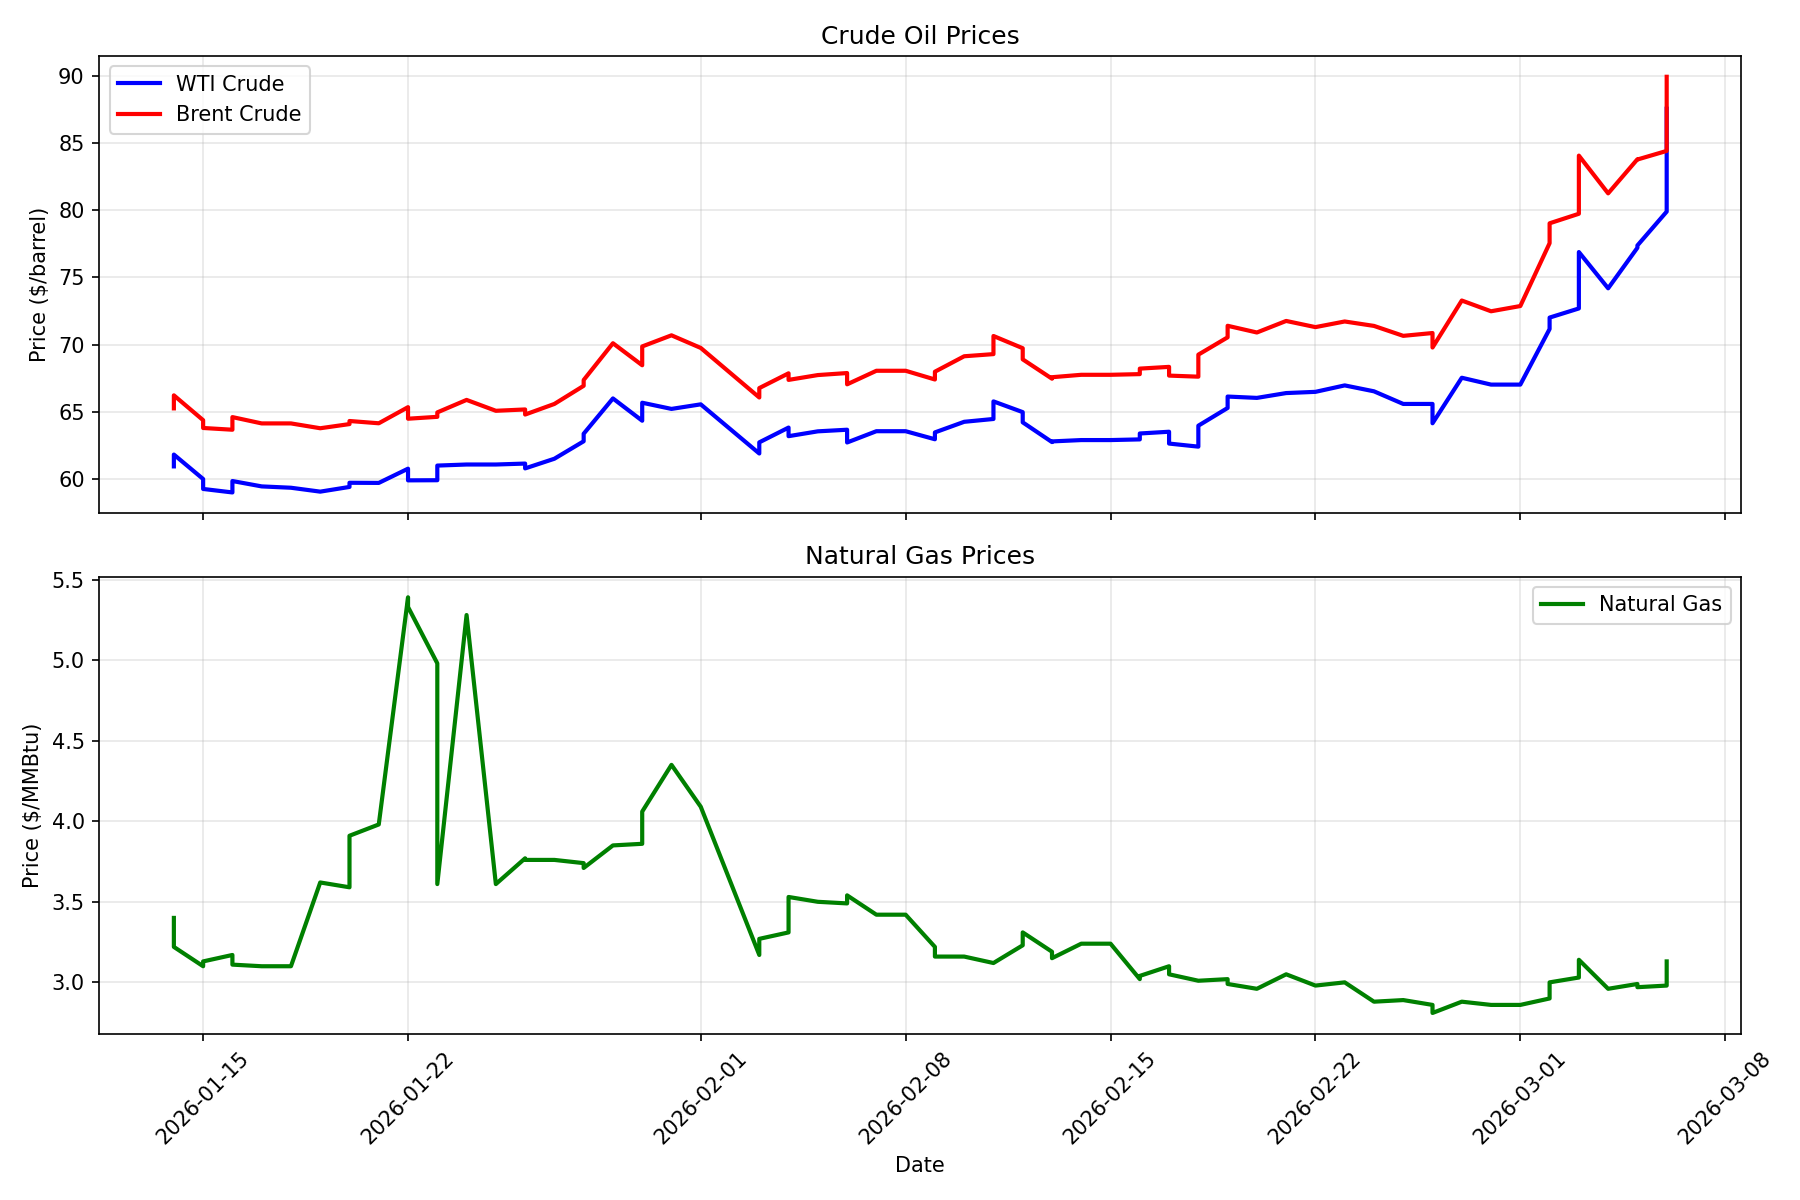
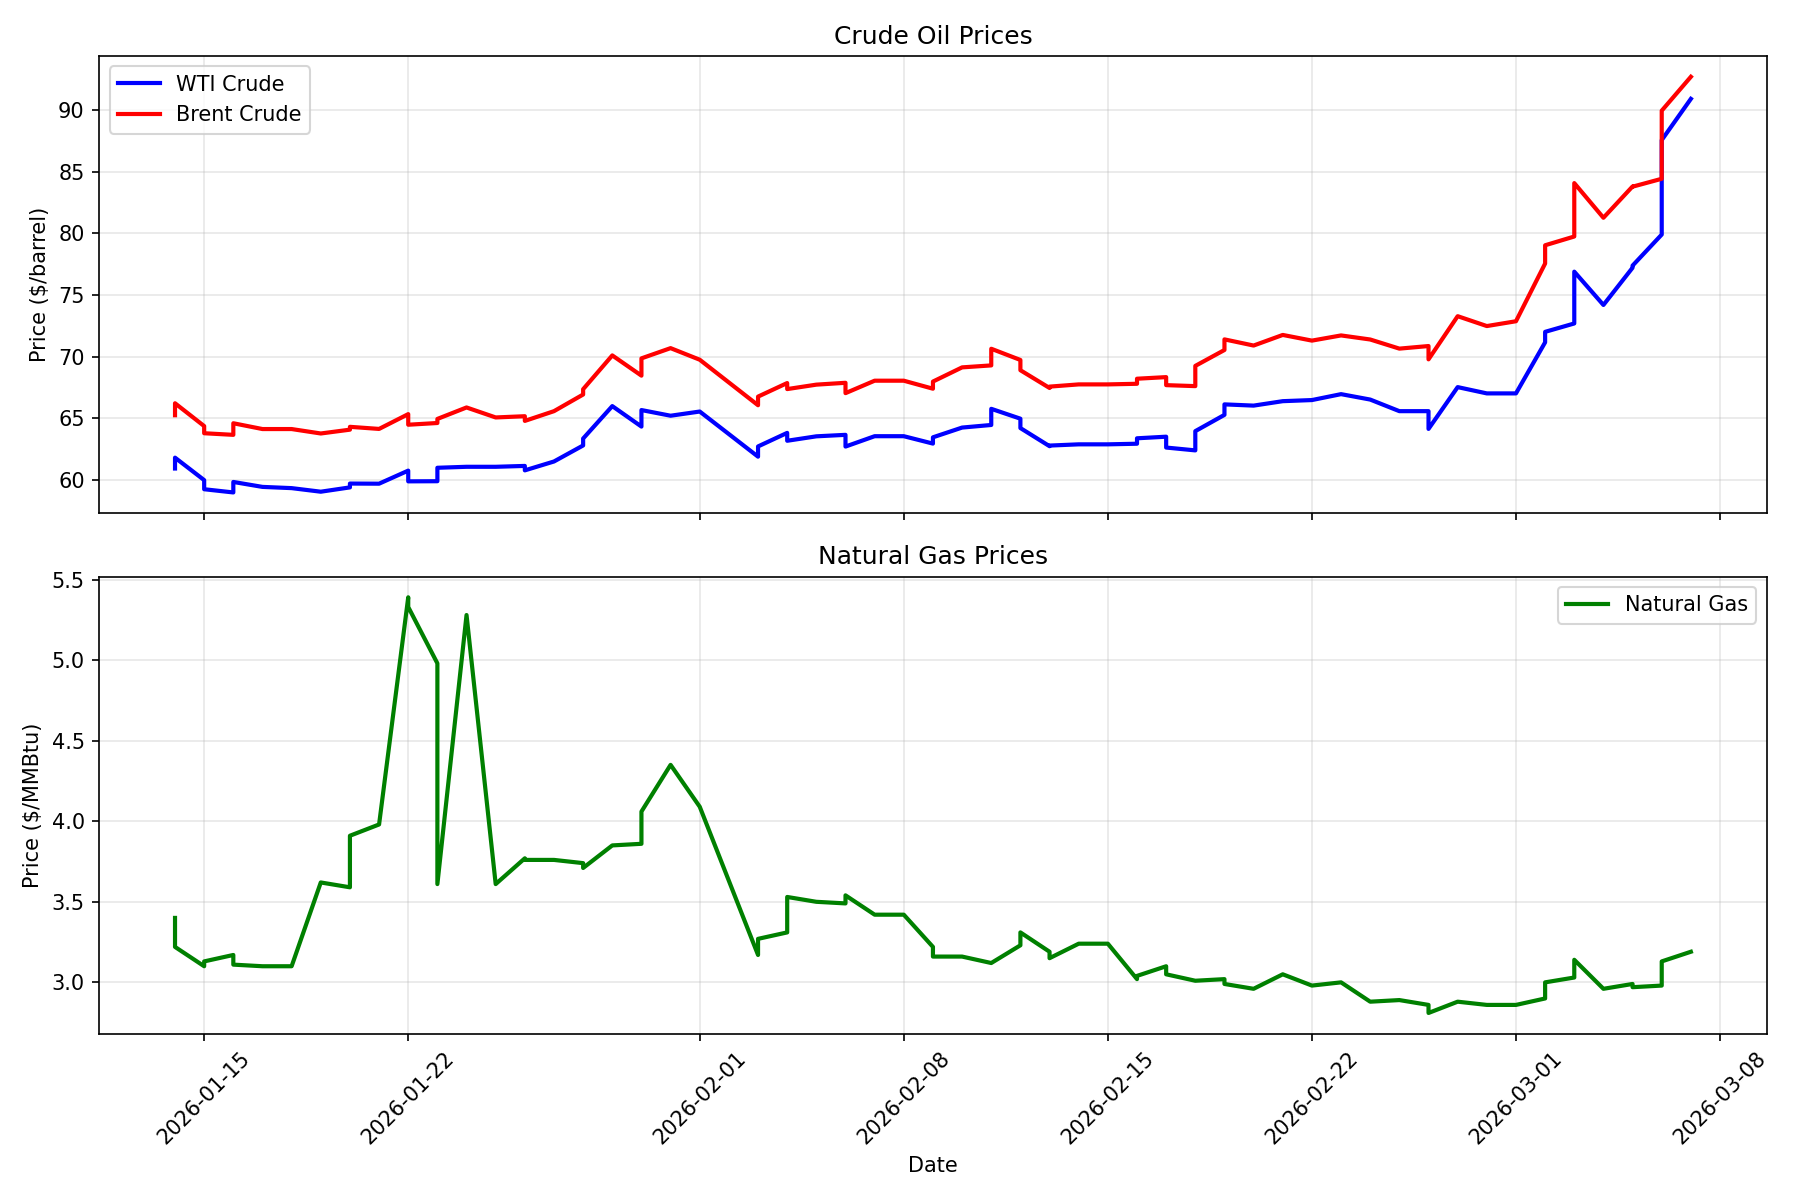
Daily price update: 2026-03-07

diff --git a/README.md b/README.md
@@ -2,29 +2,29 @@
 
 Automated daily tracking of chemical commodity prices and chemical company stocks.
 
-## Latest Prices (Updated: 2026-03-06)
+## Latest Prices (Updated: 2026-03-07)
 
 ### Energy Commodities
 
 | Commodity | Price | Change (24h) | Unit |
 |-----------|-------|--------------|------|
-| WTI Crude Oil | $87.56 | +6.55 (+8.09%) | $/barrel |
-| Brent Crude Oil | $89.94 | +4.53 (+5.30%) | $/barrel |
-| Natural Gas | $3.13 | +0.12 (+4.13%) | $/MMBtu |
-| Heating Oil | $3.33 | -0.28 (-7.78%) | $/gallon |
+| WTI Crude Oil | $90.90 | +9.89 (+12.21%) | $/barrel |
+| Brent Crude Oil | $92.69 | +7.28 (+8.52%) | $/barrel |
+| Natural Gas | $3.19 | +0.18 (+6.09%) | $/MMBtu |
+| Heating Oil | $3.62 | +0.01 (+0.22%) | $/gallon |
 
 ### Chemical Company Stocks
 
 | Company | Ticker | Price | Change (24h) |
 |---------|--------|-------|--------------|
-| Dow Inc. | DOW | $33.72 | +1.38 (+4.27%) |
-| LyondellBasell | LYB | $65.88 | +3.96 (+6.40%) |
-| DuPont | DD | $46.72 | -1.36 (-2.83%) |
-| Air Products | APD | $276.35 | +2.15 (+0.78%) |
-| Linde | LIN | $490.06 | -9.13 (-1.83%) |
-| Eastman Chemical | EMN | $72.18 | -1.27 (-1.73%) |
-| Celanese | CE | $52.55 | +1.40 (+2.74%) |
-| Huntsman | HUN | $12.55 | -0.34 (-2.64%) |
+| Dow Inc. | DOW | $33.28 | -0.44 (-1.30%) |
+| LyondellBasell | LYB | $67.11 | +1.23 (+1.87%) |
+| DuPont | DD | $45.26 | -1.46 (-3.13%) |
+| Air Products | APD | $272.18 | -4.17 (-1.51%) |
+| Linde | LIN | $484.74 | -5.32 (-1.09%) |
+| Eastman Chemical | EMN | $70.33 | -1.85 (-2.56%) |
+| Celanese | CE | $49.32 | -3.23 (-6.15%) |
+| Huntsman | HUN | $11.44 | -1.11 (-8.84%) |
 
 ## Data Sources
 

diff --git a/logs/update_log.md b/logs/update_log.md
@@ -97,3 +97,4 @@ Daily updates to the chemical engineering data repository.
 - **2026-03-05 14:14:49**: Updated 4 energy prices, 8 stocks, 0 FRED series
 - **2026-03-06 00:00:03**: Updated 4 energy prices, 8 stocks, 0 FRED series
 - **2026-03-06 14:10:38**: Updated 4 energy prices, 8 stocks, 0 FRED series
+- **2026-03-07 14:03:22**: Updated 4 energy prices, 8 stocks, 0 FRED series
